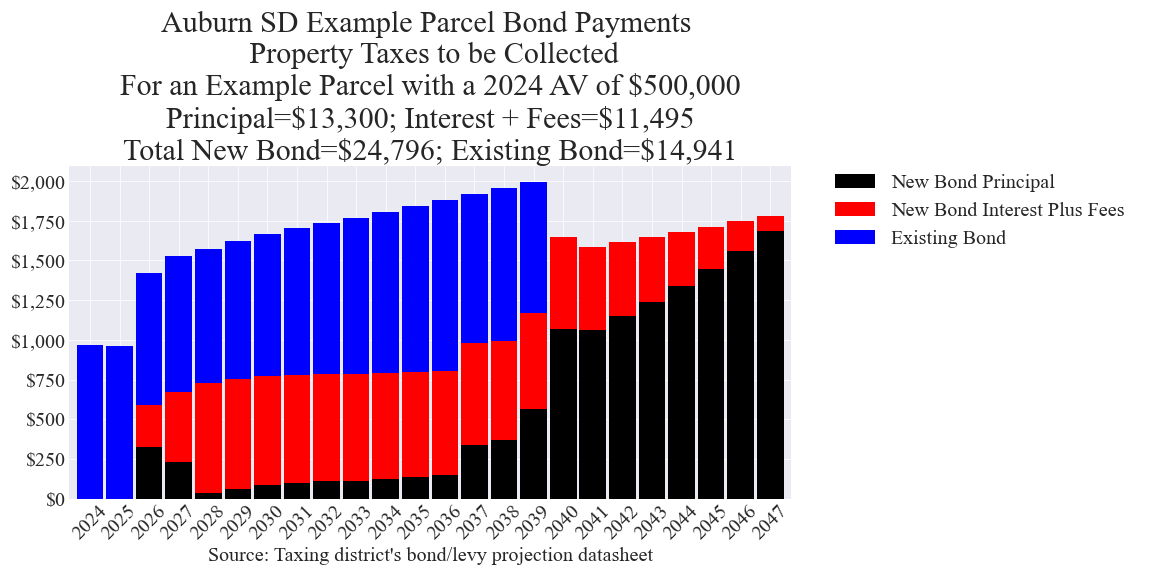
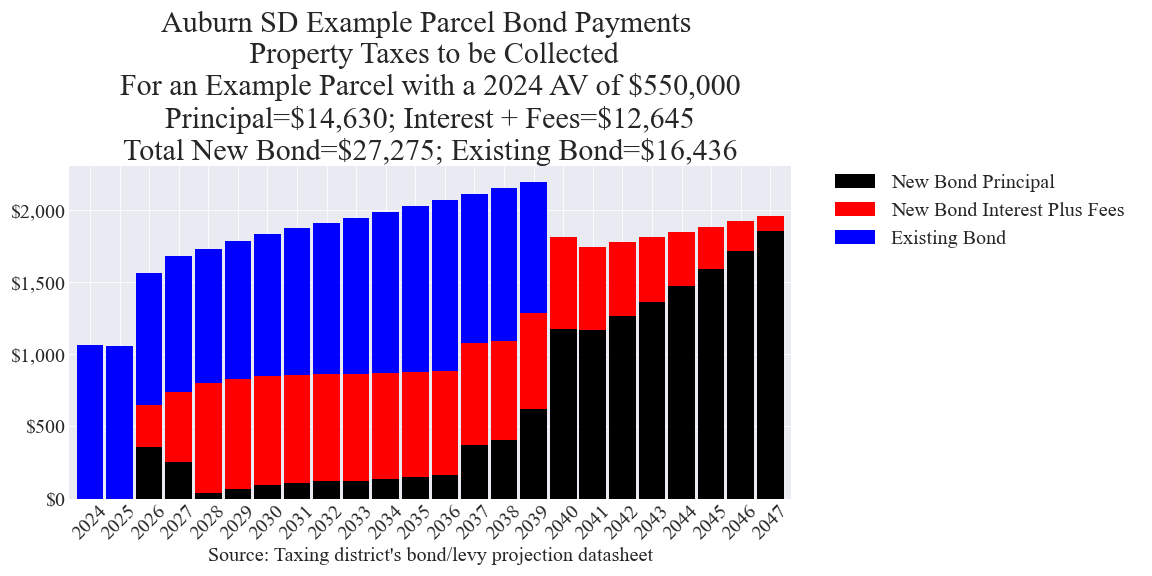
Updated election 20241105
Mod:
Auburn

diff --git a/_includes/cost_estimates/20241105/Auburn_20241105_Enhanced.html b/_includes/cost_estimates/20241105/Auburn_20241105_Enhanced.html
@@ -12,7 +12,7 @@
 	var dataParcel;
 	
 	totalBondAV = 19965589000;
-	sampleParcelAV = 500000;
+	sampleParcelAV = 550000;
 	sampleParcelAVMin = 100000;
 	sampleParcelAVMax = 2000000;
 	totalBondPrincipal = 531100000;
